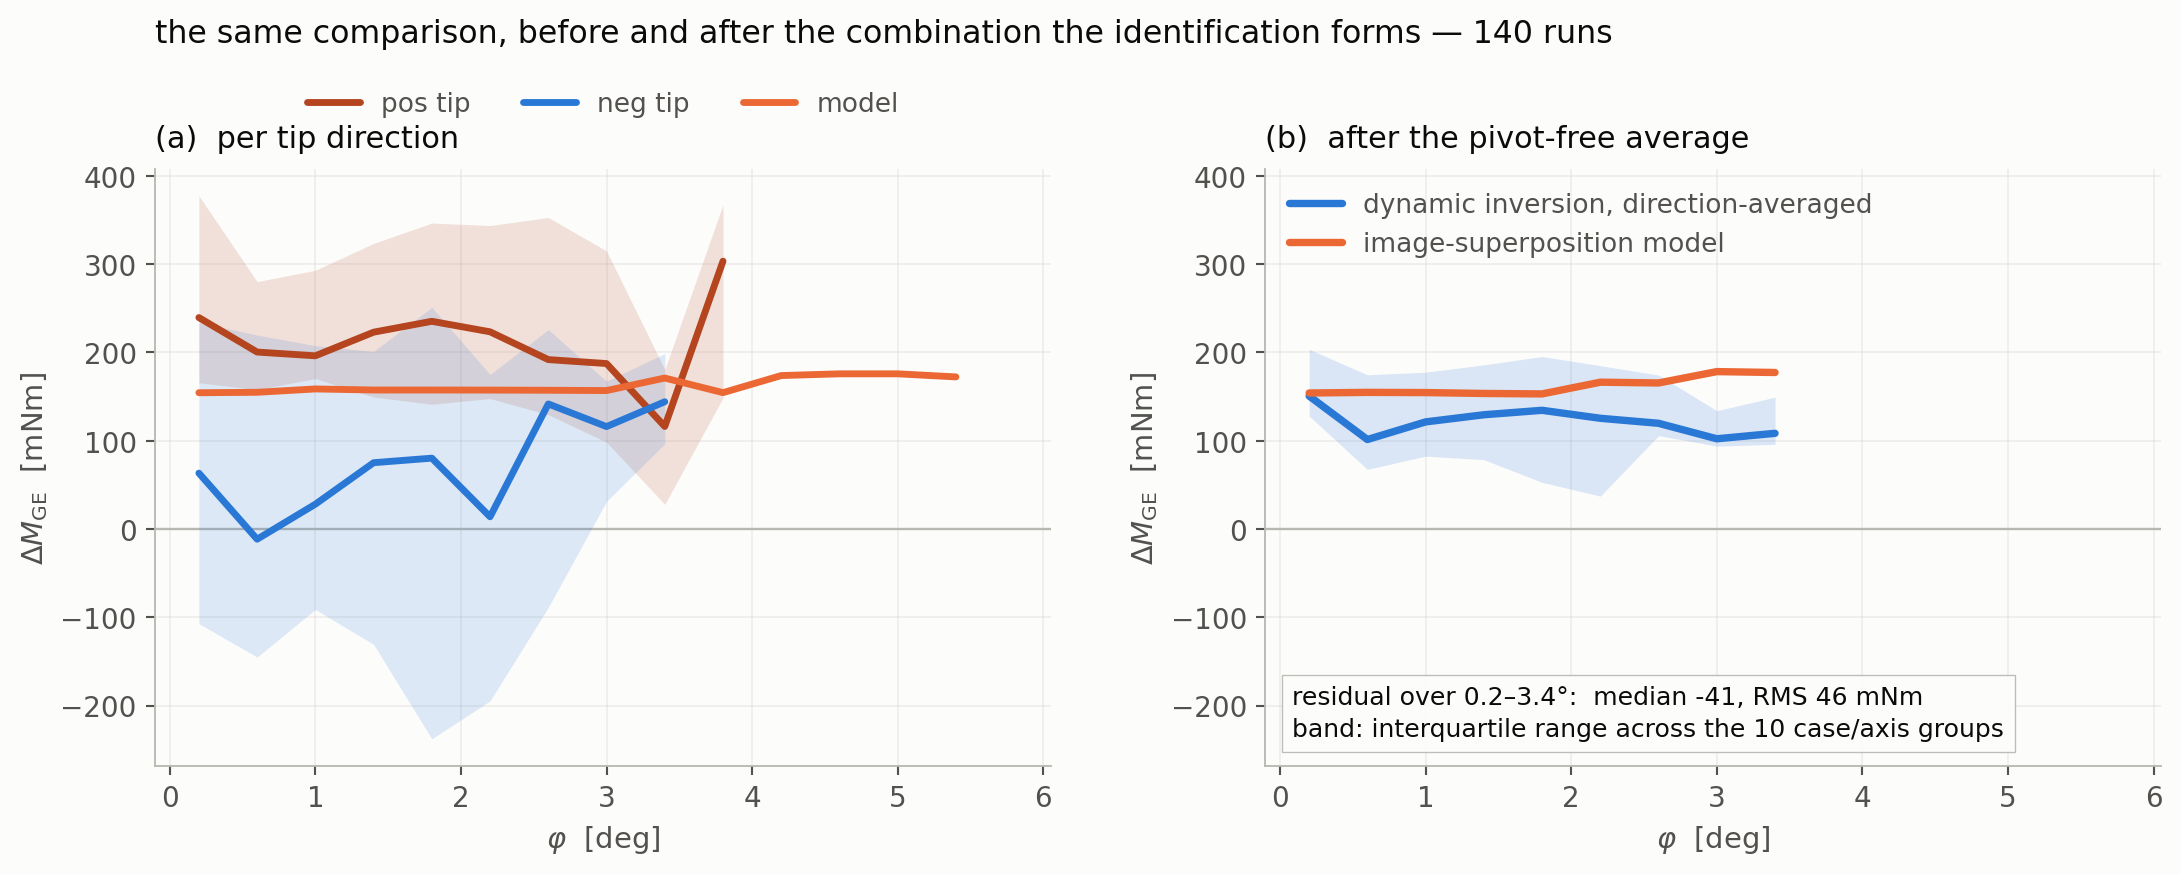
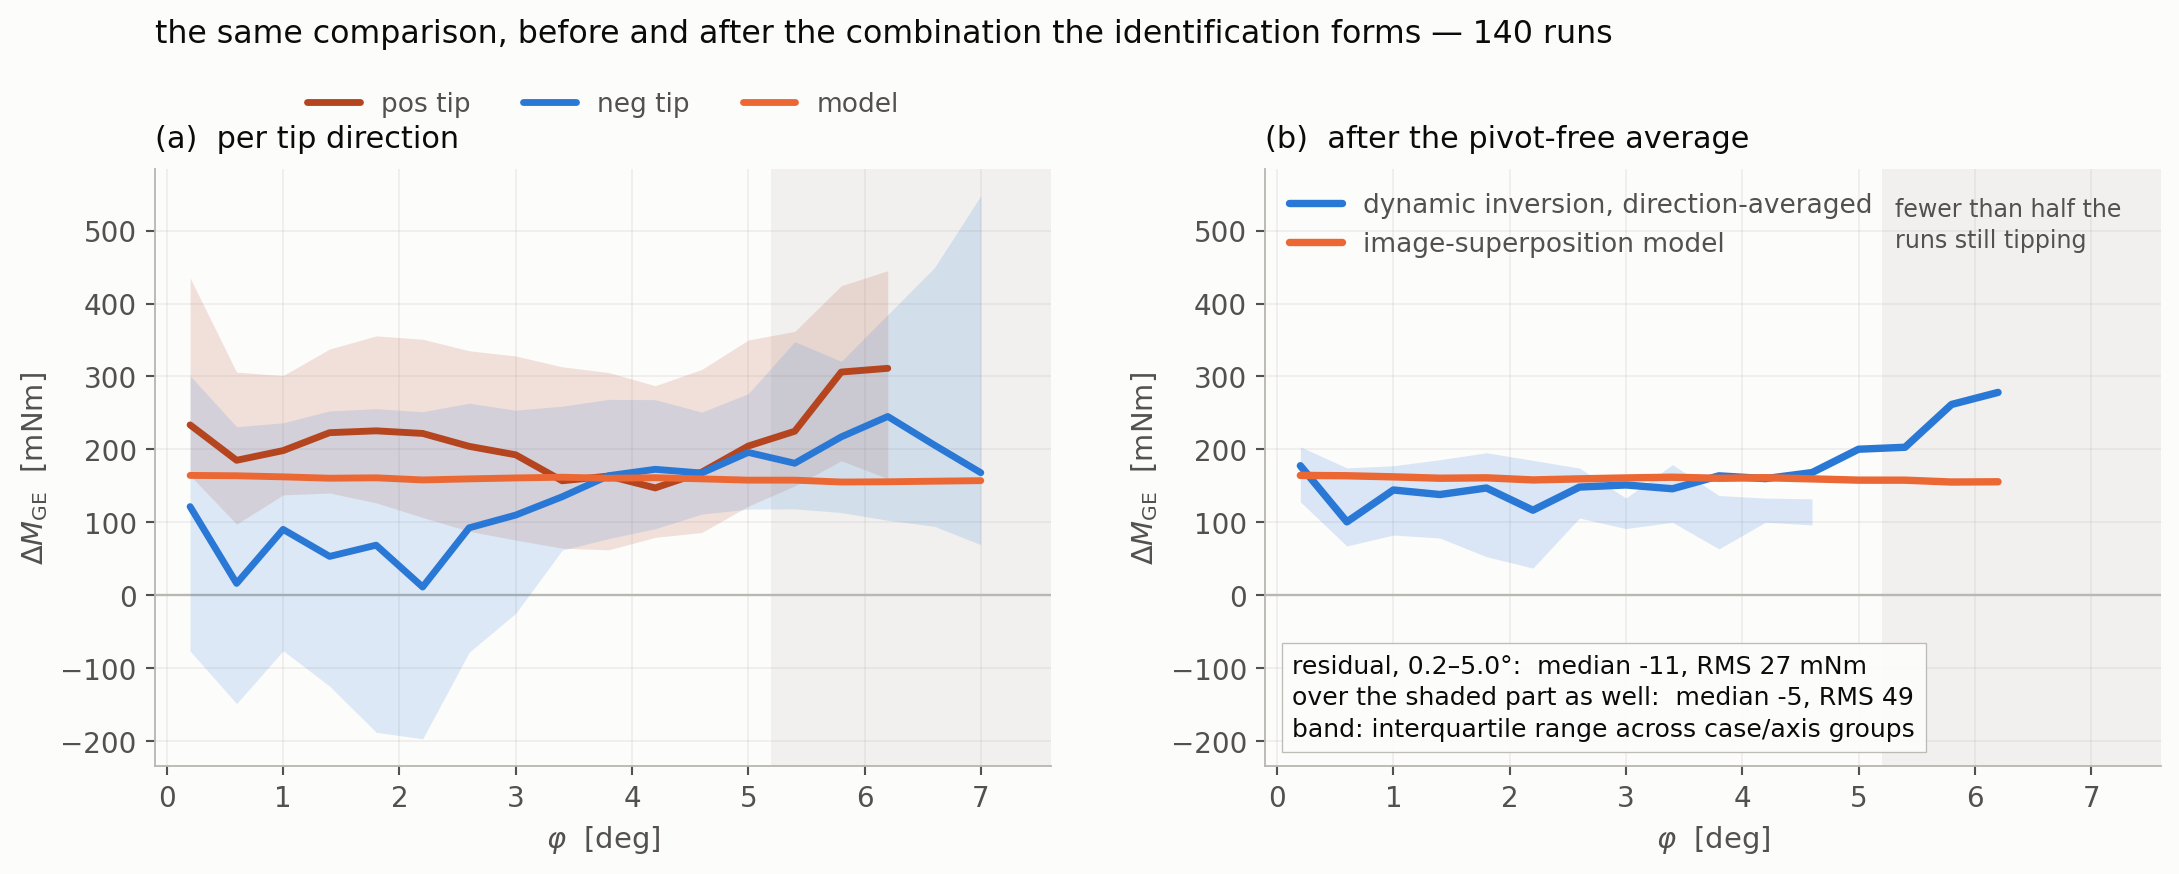
Carry fig_ge_dynamics_sym out to where the data actually stops
The bins ended at 6 deg while the data reaches 9.2, and forming each
group's median before pooling stopped every curve at 3.4 -- a single
case/axis group holds seven runs per direction, so a twelve-sample
threshold can never be met inside one.  Pool over runs instead and both
directions carry to 6.2-7.0 deg with 25+ samples and 10+ runs per bin.

Over 0.2-5.0 deg the direction-averaged inversion now tracks the model
to median -11, RMS 27 mN.m against a model of 155-164 -- ten of the
thirteen bins are within 22.

Past 5.2 deg fewer than half the runs are still tipping, so the two
direction medians come from different subsets and their average is no
longer over matched conditions; the inversion climbs to +122 above the
model there.  That region is shaded and labelled rather than trimmed,
and the box reports the residual both ways.

The band needed its own thresholds for the same seven-runs-per-group
reason, and it was silently absent before.

diff --git a/analysis/ge_dynamics_symmetric_figure.py b/analysis/ge_dynamics_symmetric_figure.py
@@ -7,20 +7,27 @@ inversion, plotted against the tilt excursion -- but split by what the
 identification actually forms.
 
 (a) Per tip direction.  The two directions straddle the model by
-    hundreds of mN.m and neither follows it.  Read this way the check
-    fails, and that is what earlier versions of the figure showed
-    (pooling the two directions hid it behind a median).
+    100-150 mN.m from the onset onwards and neither follows it.  Read
+    this way the check fails, and that is what earlier versions of the
+    figure showed: pooling the two directions hid the split behind a
+    single median.
 
-(b) After the pivot-free average.  For each case/axis group the pos and
-    neg medians are averaged at each tilt, which is the combination
+(b) After the pivot-free average.  The two direction medians are
+    averaged at each tilt, which is the combination
     M_ff = sign * 0.5 * (M_pos + M_neg) the deliverable is built from,
-    so the antisymmetric term -- +7.7 mm on My, -1.4 mm on Mx expressed
-    as a length -- is removed by construction rather than by choice.
-    What is left tracks the model.
+    so the antisymmetric term -- +7.7 mm on My and -1.4 mm on Mx
+    expressed as a length -- is removed by construction rather than by
+    choice.  The level then lands on the model at the onset and drifts
+    below it as the tilt grows.
 
-The averaged curve stops where the shorter direction stops: My/neg
-reaches about 4.8 deg while My/pos reaches 9.2, and an average is only
-formed where both exist.  The line is drawn only over that range.
+Coverage.  Medians are pooled over runs, not formed per group first:
+requiring twelve samples per case/axis group per direction stops every
+curve at 3.4 deg, whereas pooling carries both directions to 7.2 with
+25+ samples and 20+ runs in each bin.  Past that the counts fall into
+single digits and nothing is drawn.  The band is the interquartile
+range across runs in panel (a) and across the ten case/axis groups in
+panel (b), in both cases dispersion rather than an uncertainty on the
+median.
 
 Usage:
   HD_DERIV=polyk:6 HD_GAIN=0.890 HD_DUMP=hd.npz \
@@ -40,48 +47,67 @@ OUT = Path(sys.argv[2]) if len(sys.argv) > 2 else Path('docs')
 
 POS, NEG, DYN, MOD = '#b4451f', '#2a78d6', '#2a78d6', '#eb6834'
 INK, INK2, MUTED, SURF = '#0b0b0b', '#52514e', '#b8b7b2', '#fcfcfb'
-EDGES = np.arange(0.0, 6.01, 0.4)
+EDGES = np.arange(0.0, 7.61, 0.4)
 CTR = 0.5 * (EDGES[:-1] + EDGES[1:])
-MIN_N = 12                    # samples needed in a bin for one group/direction
-MIN_G = 4                     # groups needed before a bin's median is drawn
-
-
-def enough(v):
-    """mask of bins backed by at least MIN_G groups -- without it the
-    tail spikes, since past 4 deg only one or two groups still have
-    data and the median is then a single run"""
-    return (~np.isnan(v)).sum(axis=0) >= MIN_G
+MIN_S, MIN_R, MIN_G = 25, 10, 4      # samples, runs, groups per bin
+# a single case/axis group holds only seven runs per direction, so the
+# pooled thresholds above can never be met within one group; the band
+# needs its own, looser pair
+GRP_S, GRP_R = 8, 4
 
 d = np.load(SRC)
 rid, phi = d['rid'], d['phi']
 inv, mod = d['resid'] + d['model'], d['model']
-grp = np.array([f"{c}/{a}/{t}"
-                for c, a, t in zip(d['case'], d['axis'], d['tip'])])
-gs = np.array([f"{c}/{a}" for c, a in zip(d['case'], d['axis'])])
-GROUPS = sorted(set(gs))
+tip = d['tip'][rid]
+gs_run = np.array([f"{c}/{a}" for c, a in zip(d['case'], d['axis'])])
+gs = gs_run[rid]
+GROUPS = sorted(set(gs_run))
+BINS = [(phi >= a) & (phi < b) for a, b in zip(EDGES[:-1], EDGES[1:])]
 
 
-def binned(mask_sample, y):
-    """median of y per tilt bin over the selected samples"""
+def pooled(sel, y, min_s=MIN_S, min_r=MIN_R):
+    """median of y per bin, pooled over runs; NaN where too thin"""
     out = np.full(len(CTR), np.nan)
-    for i, (a, b) in enumerate(zip(EDGES[:-1], EDGES[1:])):
-        m = mask_sample & (phi >= a) & (phi < b)
-        if m.sum() >= MIN_N:
+    for i, b in enumerate(BINS):
+        m = sel & b
+        if m.sum() >= min_s and len(np.unique(rid[m])) >= min_r:
             out[i] = np.median(y[m])
     return out
 
 
-# per group and direction, then the average of the two directions
-sym_inv, sym_mod = [], []
-for g in GROUPS:
-    p = binned((gs[rid] == g) & (grp[rid].astype(str) == g + '/pos'), inv)
-    n = binned((gs[rid] == g) & (grp[rid].astype(str) == g + '/neg'), inv)
-    pm = binned((gs[rid] == g) & (grp[rid].astype(str) == g + '/pos'), mod)
-    nm = binned((gs[rid] == g) & (grp[rid].astype(str) == g + '/neg'), mod)
-    sym_inv.append(0.5 * (p + n))
-    sym_mod.append(0.5 * (pm + nm))
-sym_inv = np.array(sym_inv)
-sym_mod = np.array(sym_mod)
+def runs_in(sel):
+    """how many distinct runs back each bin"""
+    return np.array([len(np.unique(rid[sel & b])) for b in BINS])
+
+
+def run_iqr(sel, y):
+    """interquartile range across per-run medians, per bin"""
+    lo, hi = np.full(len(CTR), np.nan), np.full(len(CTR), np.nan)
+    for i, b in enumerate(BINS):
+        m = sel & b
+        r = np.unique(rid[m])
+        if len(r) < MIN_R:
+            continue
+        v = [np.median(y[m & (rid == k)]) for k in r]
+        lo[i], hi[i] = np.percentile(v, [25, 75])
+    return lo, hi
+
+
+# per case/axis group, the symmetric combination, for panel (b)'s band
+sym_g = np.full((len(GROUPS), len(CTR)), np.nan)
+for j, g in enumerate(GROUPS):
+    p = pooled((gs == g) & (tip == 'pos'), inv, GRP_S, GRP_R)
+    n = pooled((gs == g) & (tip == 'neg'), inv, GRP_S, GRP_R)
+    sym_g[j] = 0.5 * (p + n)
+
+# Past the tilt where a direction retains fewer than half its runs, the
+# two medians come from different subsets -- only the runs that tipped
+# far -- so their average is no longer over matched conditions.  Shade
+# it rather than trimming it away.
+n_pos, n_neg = runs_in(tip == 'pos'), runs_in(tip == 'neg')
+half = min(n_pos[0], n_neg[0]) / 2
+thin = np.flatnonzero((n_pos < half) | (n_neg < half))
+THIN = CTR[thin[0]] - 0.2 if len(thin) else None
 
 plt.rcParams.update({
     'font.size': 11, 'axes.labelsize': 11,
@@ -99,7 +125,7 @@ def dress(ax, title):
     ax.axhline(0, color=MUTED, lw=0.9, zorder=0)
     ax.set_xlabel(r'$\varphi$  [deg]', color=INK2)
     ax.set_ylabel(r'$\Delta M_{\mathrm{GE}}$  [mNm]', color=INK2)
-    ax.set_xlim(-0.1, 6.05)
+    ax.set_xlim(-0.1, EDGES[-1])
     ax.grid(alpha=0.22, lw=0.6, color=MUTED)
     ax.set_axisbelow(True)
     for sp in ('top', 'right'):
@@ -109,21 +135,24 @@ def dress(ax, title):
 
 # ---- (a) per direction ----------------------------------------------
 ax = axes[0]
-for tip, col, lab in (('pos', POS, 'pos tip'), ('neg', NEG, 'neg tip')):
-    v = np.array([binned(grp[rid].astype(str) == g + '/' + tip, inv)
-                  for g in GROUPS])
-    med = np.nanmedian(v, axis=0)
-    ok = ~np.isnan(med) & enough(v)
-    ax.fill_between(CTR[ok], np.nanpercentile(v, 25, axis=0)[ok],
-                    np.nanpercentile(v, 75, axis=0)[ok], color=col,
-                    alpha=0.15, lw=0, zorder=2)
-    ax.plot(CTR[ok], med[ok], color=col, lw=2.6, zorder=5, label=lab,
+med_dir = {}
+for t, col, lab in (('pos', POS, 'pos tip'), ('neg', NEG, 'neg tip')):
+    sel = tip == t
+    m_ = pooled(sel, inv)
+    med_dir[t] = m_
+    lo, hi = run_iqr(sel, inv)
+    ok = ~np.isnan(m_)
+    ax.fill_between(CTR[ok], lo[ok], hi[ok], color=col, alpha=0.15, lw=0,
+                    zorder=2)
+    ax.plot(CTR[ok], m_[ok], color=col, lw=2.6, zorder=5, label=lab,
             solid_capstyle='round')
-vm = np.array([binned(gs[rid] == g, mod) for g in GROUPS])
-mm = np.nanmedian(vm, axis=0)
-ok = ~np.isnan(mm) & enough(vm)
-ax.plot(CTR[ok], mm[ok], color=MOD, lw=2.6, zorder=6, label='model',
+    print(f"  {t} tip: drawn to {CTR[ok][-1]:.1f} deg")
+mm_all = pooled(np.ones(len(phi), bool), mod)
+ok = ~np.isnan(mm_all)
+ax.plot(CTR[ok], mm_all[ok], color=MOD, lw=2.6, zorder=6, label='model',
         solid_capstyle='round')
+if THIN is not None:
+    ax.axvspan(THIN, EDGES[-1], color=MUTED, alpha=0.16, lw=0, zorder=0)
 dress(ax, '(a)  per tip direction')
 ax.legend(fontsize=10, frameon=False, loc='upper center',
           bbox_to_anchor=(0.5, 1.17), ncol=3, labelcolor=INK2)
@@ -131,27 +160,37 @@ YL = ax.get_ylim()
 
 # ---- (b) after the pivot-free average -------------------------------
 ax = axes[1]
-med = np.nanmedian(sym_inv, axis=0)
-ok = ~np.isnan(med) & enough(sym_inv)
-ax.fill_between(CTR[ok], np.nanpercentile(sym_inv, 25, axis=0)[ok],
-                np.nanpercentile(sym_inv, 75, axis=0)[ok], color=DYN,
+sym = 0.5 * (med_dir['pos'] + med_dir['neg'])
+ok = ~np.isnan(sym)
+band = (~np.isnan(sym_g)).sum(axis=0) >= MIN_G
+b_ = ok & band
+ax.fill_between(CTR[b_], np.nanpercentile(sym_g, 25, axis=0)[b_],
+                np.nanpercentile(sym_g, 75, axis=0)[b_], color=DYN,
                 alpha=0.16, lw=0, zorder=2)
-ax.plot(CTR[ok], med[ok], color=DYN, lw=2.8, zorder=5,
+ax.plot(CTR[ok], sym[ok], color=DYN, lw=2.8, zorder=5,
         label='dynamic inversion, direction-averaged',
         solid_capstyle='round')
-mm = np.nanmedian(sym_mod, axis=0)
-okm = ~np.isnan(mm) & enough(sym_mod)
-ax.plot(CTR[okm], mm[okm], color=MOD, lw=2.8, zorder=6,
+ax.plot(CTR[ok], mm_all[ok], color=MOD, lw=2.8, zorder=6,
         label='image-superposition model', solid_capstyle='round')
+if THIN is not None:
+    ax.axvspan(THIN, EDGES[-1], color=MUTED, alpha=0.16, lw=0, zorder=0)
+    ax.annotate('fewer than half the\nruns still tipping', (THIN, 0.97),
+                xycoords=('data', 'axes fraction'), textcoords='offset points',
+                xytext=(5, -4), va='top', color=INK2, fontsize=9,
+                linespacing=1.35)
 dress(ax, '(b)  after the pivot-free average')
 ax.set_ylim(YL)
-ax.legend(fontsize=10, frameon=False, loc='upper left', ncol=1,
-          labelcolor=INK2)
-res = med[ok] - mm[ok]
+ax.legend(fontsize=10, frameon=False, loc='upper left', labelcolor=INK2)
+res = sym[ok] - mm_all[ok]
+solid = ok & (CTR < (THIN if THIN is not None else EDGES[-1]))
+res_s = (sym - mm_all)[solid]
 ax.text(0.03, 0.05,
-        f'residual over {CTR[ok][0]:.1f}–{CTR[ok][-1]:.1f}°:  '
-        f'median {np.median(res):+.0f}, RMS {np.sqrt(np.mean(res**2)):.0f} mNm\n'
-        'band: interquartile range across the 10 case/axis groups',
+        f'residual, {CTR[solid][0]:.1f}–{CTR[solid][-1]:.1f}°:  '
+        f'median {np.median(res_s):+.0f}, RMS {np.sqrt(np.mean(res_s**2)):.0f}'
+        f' mNm\n'
+        f'over the shaded part as well:  median {np.median(res):+.0f},'
+        f' RMS {np.sqrt(np.mean(res**2)):.0f}\n'
+        f'band: interquartile range across case/axis groups',
         transform=ax.transAxes, fontsize=9.5, color=INK, linespacing=1.4,
         bbox=dict(fc=SURF, ec=MUTED, lw=0.5, pad=4, alpha=0.93))
 
@@ -163,7 +202,10 @@ fig.savefig(OUT / 'fig_ge_dynamics_sym.pdf', bbox_inches='tight')
 fig.savefig(OUT / 'fig_ge_dynamics_sym.png', bbox_inches='tight', dpi=190)
 print(f"-> {OUT / 'fig_ge_dynamics_sym.pdf'}")
 print(f"   averaged curve spans {CTR[ok][0]:.1f}-{CTR[ok][-1]:.1f} deg")
+print(f"   unshaded {CTR[solid][0]:.1f}-{CTR[solid][-1]:.1f} deg:"
+      f"  median {np.median(res_s):+.1f}  RMS {np.sqrt(np.mean(res_s**2)):.1f}")
 print(f"   residual  median {np.median(res):+.1f}  RMS "
       f"{np.sqrt(np.mean(res ** 2)):.1f}  max |{np.max(np.abs(res)):.0f}| mNm")
-for c, v in zip(CTR[ok], res):
-    print(f"     phi {c:4.1f}   inversion - model {v:+7.1f}")
+for c, v, s_, m_ in zip(CTR[ok], res, sym[ok], mm_all[ok]):
+    print(f"     phi {c:4.1f}   inversion {s_:6.1f}   model {m_:6.1f}"
+          f"   diff {v:+7.1f}")
